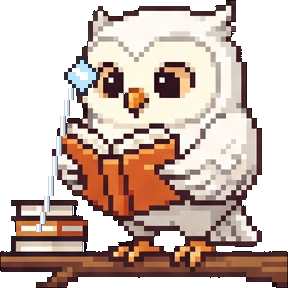
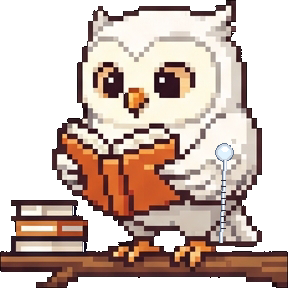
fix(sprites): fix broken dental accessories with anatomically aligned pixel-art sprites

Changed region(s): [[0.125, 0.1875, 0.3438, 0.8125], [0.75, 0.5, 0.8125, 0.8438]]

diff --git a/craft_dental_sprites.py b/craft_dental_sprites.py
@@ -1,0 +1,303 @@
+import os
+from PIL import Image, ImageDraw
+
+DARK = (45, 40, 53, 255)            # Base outline color
+TEAL_BASE = (13, 148, 136, 255)       # Hospital scrub teal
+TEAL_LIGHT = (45, 212, 191, 255)      # Scrub highlight
+TEAL_SHADOW = (15, 118, 110, 255)     # Scrub shadow
+TEAL_BAND = (17, 94, 89, 255)         # Elastic trim band
+
+MASK_BLUE = (56, 189, 248, 255)       # Surgical mask sky blue
+MASK_LIGHT = (186, 230, 253, 255)     # Mask highlight
+MASK_FOLD = (14, 116, 144, 255)       # Pleat fold
+STRAP_WHITE = (248, 250, 252, 230)    # Soft white strap
+
+WHITE_COAT = (252, 252, 255, 255)     # Doctor lab coat
+WHITE_SHADE = (218, 226, 236, 255)    # Coat fold shadow
+WHITE_DEEP = (180, 195, 212, 255)     # Deep shadow
+
+SILVER_BRIGHT = (248, 250, 252, 255)
+SILVER_MID = (203, 213, 225, 255)
+SILVER_DARK = (100, 116, 139, 255)
+STETH_TUBE = (51, 65, 85, 255)
+
+GOLD_LIGHT = (254, 240, 138, 255)
+GOLD_BASE = (245, 158, 11, 255)
+GOLD_SHADOW = (180, 83, 9, 255)
+
+def get_head_bounds(im, y, max_x_limit=220):
+    """Finds left and right bounds of owl head on a given row."""
+    xs = [x for x in range(im.width) if im.getpixel((x, y))[3] > 100 and x < max_x_limit]
+    if not xs:
+        return None, None
+    return min(xs), max(xs)
+
+def draw_mask_on(draw, mx, my, mw, mh, pleat_y1, pleat_y2, strap_left, strap_right):
+    """Draws an anatomically fitting surgical mask with pleats and straps."""
+    # Mask main body
+    for y in range(my, my + mh):
+        is_corner_y = (y <= my + 2) or (y >= my + mh - 3)
+        inset = 3 if is_corner_y else 0
+        draw.line([(mx + inset, y), (mx + mw - inset, y)], fill=MASK_BLUE, width=1)
+
+    # Top highlight
+    draw.line([(mx + 3, my), (mx + mw - 3, my)], fill=MASK_LIGHT, width=2)
+    # Bottom shadow
+    draw.line([(mx + 3, my + mh - 1), (mx + mw - 3, my + mh - 1)], fill=MASK_FOLD, width=1)
+
+    # Pleat folds
+    if pleat_y1:
+        draw.line([(mx + 3, pleat_y1), (mx + mw - 3, pleat_y1)], fill=MASK_FOLD, width=1)
+        draw.line([(mx + 3, pleat_y1 + 1), (mx + mw - 3, pleat_y1 + 1)], fill=MASK_LIGHT, width=1)
+    if pleat_y2:
+        draw.line([(mx + 3, pleat_y2), (mx + mw - 3, pleat_y2)], fill=MASK_FOLD, width=1)
+        draw.line([(mx + 3, pleat_y2 + 1), (mx + mw - 3, pleat_y2 + 1)], fill=MASK_LIGHT, width=1)
+
+    # Dark borders
+    draw.line([(mx + 3, my), (mx + mw - 3, my)], fill=DARK, width=1)
+    draw.line([(mx + 3, my + mh), (mx + mw - 3, my + mh)], fill=DARK, width=1)
+    draw.line([(mx, my + 2), (mx, my + mh - 2)], fill=DARK, width=1)
+    draw.line([(mx + mw, my + 2), (mx + mw, my + mh - 2)], fill=DARK, width=1)
+
+    # Straps
+    draw.line([(mx, strap_left[1]), (strap_left[0], strap_left[1] - 4)], fill=STRAP_WHITE, width=2)
+    draw.line([(mx + mw, strap_right[1]), (strap_right[0], strap_right[1] - 4)], fill=STRAP_WHITE, width=2)
+
+def apply_touca_mascara(base, mode):
+    img = base.copy()
+    draw = ImageDraw.Draw(img)
+
+    # 1. SCRUB CAP (Touca Cirúrgica)
+    if mode == 'happy':
+        cap_y_start, cap_y_end = 0, 32
+        max_x = 218
+        cross_pos = (140, 16)
+    elif mode == 'sleep':
+        cap_y_start, cap_y_end = 14, 40
+        max_x = 202 # Stays strictly on head, never touches Zzz letters
+        cross_pos = (145, 26)
+    else: # focus
+        cap_y_start, cap_y_end = 6, 36
+        max_x = 232
+        cross_pos = (155, 18)
+
+    for y in range(cap_y_start, cap_y_end + 1):
+        lx, rx = get_head_bounds(base, y, max_x_limit=max_x)
+        if lx is None:
+            continue
+        # Color smoothly within the head contour
+        is_band = (y >= cap_y_end - 4)
+        c = TEAL_BAND if is_band else (TEAL_LIGHT if y < cap_y_start + 6 else TEAL_BASE)
+        draw.line([(lx + 1, y), (rx - 1, y)], fill=c, width=1)
+        # Side shadows
+        draw.point((lx + 1, y), fill=TEAL_SHADOW)
+        draw.point((rx - 1, y), fill=TEAL_SHADOW)
+        # Outline
+        draw.point((lx, y), fill=DARK)
+        draw.point((rx, y), fill=DARK)
+
+    # Bottom trim
+    lx, rx = get_head_bounds(base, cap_y_end, max_x_limit=max_x)
+    if lx and rx:
+        draw.line([(lx, cap_y_end), (rx, cap_y_end)], fill=DARK, width=1)
+
+    # Embroidered Medical Cross on cap
+    cx, cy = cross_pos
+    draw.rectangle([cx - 2, cy - 6, cx + 2, cy + 6], fill=(255, 255, 255, 255))
+    draw.rectangle([cx - 6, cy - 2, cx + 6, cy + 2], fill=(255, 255, 255, 255))
+    draw.rectangle([cx - 1, cy - 5, cx + 1, cy + 5], fill=TEAL_LIGHT)
+    draw.rectangle([cx - 5, cy - 1, cx + 5, cy + 1], fill=TEAL_LIGHT)
+
+    # 2. SURGICAL MASK (Máscara Cirúrgica)
+    if mode == 'happy':
+        draw_mask_on(draw, 146, 76, 48, 22, 82, 90, (126, 80), (206, 80))
+    elif mode == 'sleep':
+        draw_mask_on(draw, 148, 96, 48, 20, 102, 110, (128, 98), (206, 98))
+    else: # focus (Centered snugly over the tilted beak)
+        draw_mask_on(draw, 122, 102, 44, 20, 107, 114, (108, 104), (172, 104))
+
+    return img
+
+def apply_jaleco(base, mode):
+    img = base.copy()
+    draw = ImageDraw.Draw(img)
+
+    if mode in ['happy', 'sleep']:
+        # 1. Tailored Lapels (Golas dobradas de jaleco médico)
+        # Left lapel (collar)
+        left_lapel = [(106, 122), (118, 120), (130, 158), (116, 162), (104, 138)]
+        draw.polygon(left_lapel, fill=WHITE_COAT)
+        draw.line([(106, 122), (130, 158)], fill=DARK, width=2)
+        draw.line([(118, 120), (130, 158)], fill=WHITE_SHADE, width=1)
+        draw.line([(104, 138), (116, 162)], fill=WHITE_DEEP, width=1)
+
+        # Right lapel (collar)
+        right_lapel = [(188, 122), (176, 120), (164, 158), (178, 162), (190, 138)]
+        draw.polygon(right_lapel, fill=WHITE_COAT)
+        draw.line([(188, 122), (164, 158)], fill=DARK, width=2)
+        draw.line([(176, 120), (164, 158)], fill=WHITE_SHADE, width=1)
+        draw.line([(190, 138), (178, 162)], fill=WHITE_DEEP, width=1)
+
+        # 2. Medical Stethoscope (Estetoscópio curvo nos ombros)
+        steth_left = [(98, 126), (102, 136), (108, 146), (116, 156), (132, 168)]
+        steth_right = [(196, 126), (192, 136), (186, 146), (178, 156), (162, 168)]
+
+        for p1, p2 in zip(steth_left[:-1], steth_left[1:]):
+            draw.line([p1, p2], fill=STETH_TUBE, width=3)
+        for p1, p2 in zip(steth_right[:-1], steth_right[1:]):
+            draw.line([p1, p2], fill=STETH_TUBE, width=3)
+
+        # Center connector & chestpiece bell
+        draw.line([(132, 168), (147, 174)], fill=STETH_TUBE, width=3)
+        draw.line([(162, 168), (147, 174)], fill=STETH_TUBE, width=3)
+        draw.line([(147, 174), (147, 185)], fill=STETH_TUBE, width=3)
+
+        # Bell (diafragma do estetoscópio)
+        bx, by = 147, 188
+        draw.ellipse([bx - 6, by - 6, bx + 6, by + 6], fill=SILVER_DARK)
+        draw.ellipse([bx - 5, by - 5, bx + 5, by + 5], fill=SILVER_BRIGHT)
+        draw.ellipse([bx - 3, by - 3, bx + 3, by + 3], fill=(14, 165, 233, 255))
+        draw.point((bx - 1, by - 1), fill=(255, 255, 255, 255))
+
+        # 3. Clinical Identification Badge & Pocket on left chest
+        px, py = 98, 172
+        # Crisp pocket
+        draw.rectangle([px, py, px + 20, py + 18], fill=WHITE_COAT, outline=WHITE_DEEP)
+        draw.line([(px, py), (px + 20, py)], fill=DARK, width=1)
+        # Blue dental probe in pocket
+        draw.rectangle([px + 5, py - 7, px + 7, py + 4], fill=(37, 99, 235, 255))
+        draw.point((px + 6, py - 5), fill=SILVER_BRIGHT)
+        # ID Card lanyard clip
+        draw.rectangle([px + 12, py + 2, px + 17, py + 12], fill=(241, 245, 249, 255), outline=DARK)
+        draw.line([(px + 13, py + 5), (px + 16, py + 5)], fill=(37, 99, 235, 255), width=1)
+
+    else: # focus
+        # In focus mode: coat collar visible around the open textbook
+        draw.polygon([(100, 120), (115, 120), (110, 140), (95, 135)], fill=WHITE_COAT, outline=DARK)
+        draw.polygon([(194, 120), (179, 120), (184, 140), (199, 135)], fill=WHITE_COAT, outline=DARK)
+        draw.line([(96, 128), (105, 150)], fill=STETH_TUBE, width=2)
+        draw.line([(198, 128), (189, 150)], fill=STETH_TUBE, width=2)
+
+    return img
+
+def apply_espelho(base, mode):
+    img = base.copy()
+    draw = ImageDraw.Draw(img)
+
+    # Clinical Dental Examination Mirror beside the owl on the branch
+    hx, hy = 224, 152 # Mirror head center
+    # Round angled mirror
+    draw.ellipse([hx - 9, hy - 9, hx + 9, hy + 9], fill=SILVER_DARK)
+    draw.ellipse([hx - 8, hy - 8, hx + 8, hy + 8], fill=SILVER_MID)
+    draw.ellipse([hx - 6, hy - 6, hx + 6, hy + 6], fill=(224, 242, 254, 255))
+    # Glass glare reflection
+    draw.ellipse([hx - 3, hy - 5, hx + 4, hy - 1], fill=(255, 255, 255, 255))
+
+    # Metallic handle
+    draw.line([(hx, hy + 8), (hx - 4, 242)], fill=SILVER_MID, width=4)
+    draw.line([(hx - 1, hy + 8), (hx - 5, 242)], fill=SILVER_DARK, width=1)
+    draw.line([(hx + 1, hy + 8), (hx - 3, 242)], fill=SILVER_BRIGHT, width=1)
+
+    # Knurled dental handle grip
+    for gy in range(180, 230, 6):
+        draw.line([(hx - 3, gy), (hx + 1, gy)], fill=DARK, width=1)
+
+    # Star glint
+    draw.line([(hx + 7, hy - 11), (hx + 7, hy - 5)], fill=(255, 255, 255, 255), width=1)
+    draw.line([(hx + 4, hy - 8), (hx + 10, hy - 8)], fill=(255, 255, 255, 255), width=1)
+
+    return img
+
+def apply_lupa(base, mode):
+    img = base.copy()
+    draw = ImageDraw.Draw(img)
+
+    if mode == 'happy':
+        # Head-mounted LED dental surgical headlight
+        # Sleek headband
+        draw.line([(88, 38), (206, 42)], fill=SILVER_DARK, width=2)
+        # Central LED Headlight mount
+        lx, ly = 146, 38
+        draw.rectangle([lx - 5, ly - 5, lx + 5, ly + 5], fill=SILVER_MID, outline=DARK)
+        # Ultra bright LED lens
+        draw.ellipse([lx - 3, ly - 3, lx + 3, ly + 3], fill=(254, 240, 138, 255))
+        draw.point((lx, ly), fill=(255, 255, 255, 255))
+        # Warm dental headlight beam sparkles
+        draw.line([(lx, ly - 8), (lx, ly - 6)], fill=(254, 240, 138, 255), width=1)
+        draw.line([(lx - 7, ly - 5), (lx - 5, ly - 4)], fill=(254, 240, 138, 255), width=1)
+        draw.line([(lx + 7, ly - 5), (lx + 5, ly - 4)], fill=(254, 240, 138, 255), width=1)
+
+    elif mode == 'sleep':
+        # Loupe headlight turned off on sleeping forehead
+        draw.line([(96, 46), (196, 48)], fill=SILVER_DARK, width=2)
+        lx, ly = 146, 47
+        draw.rectangle([lx - 5, ly - 5, lx + 5, ly + 5], fill=SILVER_DARK, outline=DARK)
+        draw.ellipse([lx - 3, ly - 3, lx + 3, ly + 3], fill=SILVER_MID)
+
+    else: # focus
+        # Loupes with LED focused on the book
+        draw.line([(95, 42), (205, 42)], fill=SILVER_DARK, width=2)
+        lx, ly = 150, 42
+        draw.rectangle([lx - 5, ly - 5, lx + 5, ly + 5], fill=SILVER_MID, outline=DARK)
+        draw.ellipse([lx - 3, ly - 3, lx + 3, ly + 3], fill=(254, 240, 138, 255))
+        # Beam towards book
+        draw.polygon([(lx, ly + 6), (120, 120), (180, 120)], fill=(254, 240, 138, 50))
+
+    return img
+
+def apply_dente(base, mode):
+    img = base.copy()
+    draw = ImageDraw.Draw(img)
+
+    # Golden Molar Trophy proudly standing on the branch
+    tx, ty = 222, 218
+    # Crown (anatomical molar with cusps)
+    draw.rectangle([tx + 4, ty, tx + 24, ty + 12], fill=GOLD_BASE)
+    draw.rectangle([tx + 2, ty + 2, tx + 6, ty + 10], fill=GOLD_LIGHT)
+    draw.rectangle([tx + 12, ty + 2, tx + 16, ty + 8], fill=GOLD_LIGHT)
+    # Two roots
+    draw.polygon([(tx + 4, ty + 12), (tx + 11, ty + 12), (tx + 7, ty + 24)], fill=GOLD_BASE)
+    draw.polygon([(tx + 17, ty + 12), (tx + 24, ty + 12), (tx + 21, ty + 24)], fill=GOLD_BASE)
+    # Shadows
+    draw.rectangle([tx + 18, ty + 2, tx + 24, ty + 12], fill=GOLD_SHADOW)
+    draw.polygon([(tx + 19, ty + 12), (tx + 24, ty + 12), (tx + 21, ty + 24)], fill=GOLD_SHADOW)
+
+    # Pedestal base on branch
+    draw.rectangle([tx, ty + 23, tx + 28, ty + 26], fill=(71, 85, 105, 255))
+    draw.rectangle([tx + 2, ty + 24, tx + 26, ty + 25], fill=SILVER_BRIGHT)
+
+    # Sparkle star
+    sx, sy = tx + 3, ty - 2
+    draw.line([(sx, sy - 3), (sx, sy + 3)], fill=(255, 255, 255, 255), width=1)
+    draw.line([(sx - 3, sy), (sx + 3, sy)], fill=(255, 255, 255, 255), width=1)
+
+    return img
+
+def apply_completo(base, mode):
+    img = apply_jaleco(base, mode)
+    img = apply_touca_mascara(img, mode)
+    img = apply_espelho(img, mode)
+    return img
+
+def main():
+    happy = Image.open('public/owl_happy.png').convert('RGBA')
+    sleep = Image.open('public/owl_sleep.png').convert('RGBA')
+    focus = Image.open('public/owl_focus.png').convert('RGBA')
+
+    configs = [
+        ('jaleco', apply_jaleco),
+        ('mascara', apply_touca_mascara),
+        ('espelho', apply_espelho),
+        ('lupa', apply_lupa),
+        ('dente', apply_dente),
+        ('completo', apply_completo)
+    ]
+
+    for skin_id, fn in configs:
+        fn(happy, 'happy').save(f'public/owl_{skin_id}_happy.png')
+        fn(sleep, 'sleep').save(f'public/owl_{skin_id}_sleep.png')
+        fn(focus, 'focus').save(f'public/owl_{skin_id}_focus.png')
+        print(f'Successfully rendered: owl_{skin_id} (happy, sleep, focus)')
+
+if __name__ == '__main__':
+    main()
